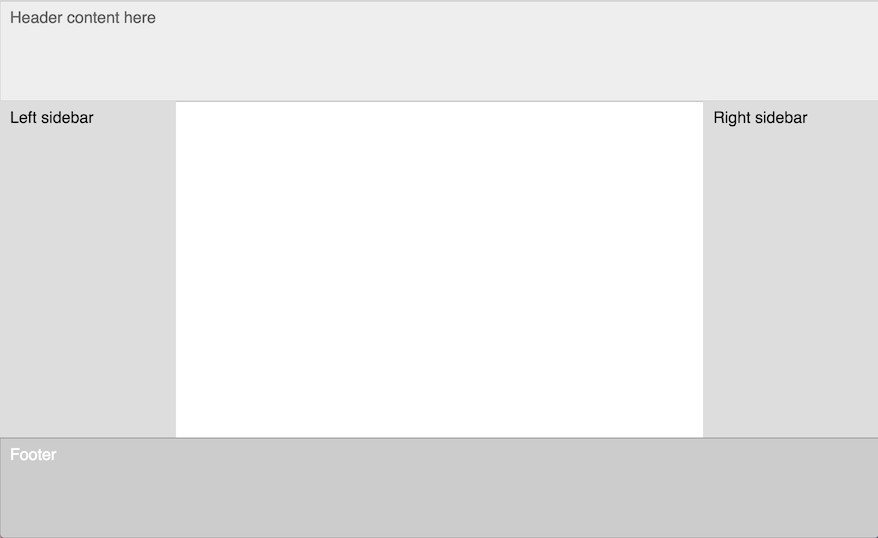
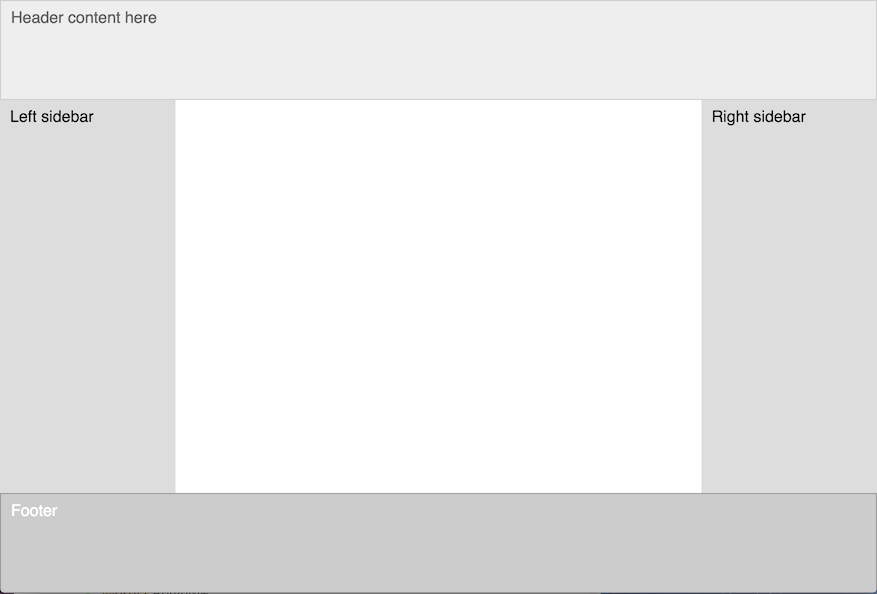
Render borders 100% inside element, stack padding on borders instead of overlapping, clarify docs, update examples

diff --git a/lightning-layout.js b/lightning-layout.js
@@ -18,8 +18,10 @@
     this._layout(ctx, element_obj, parent_x1, parent_y1, parent_x2, parent_y2);
     if (element_obj.children) {
       var padding = element_obj.padding || 0;
+      var border_width = element_obj.borderWidth || 0;
+      var offset = padding + border_width;
       element_obj.children.forEach(function(child) {
-        this.layout(ctx, child, element_obj._layout_x1 + padding, element_obj._layout_y1 + padding, element_obj._layout_x2 - padding, element_obj._layout_y2 - padding);
+        this.layout(ctx, child, element_obj._layout_x1 + offset, element_obj._layout_y1 + offset, element_obj._layout_x2 - offset, element_obj._layout_y2 - offset);
       }.bind(this));
     }
   };
@@ -44,14 +46,15 @@
 
     // calc textWidth / textHeight values
     var padding = element_obj.padding || 0;
+    var border_width = element_obj.borderWidth || 0;
     var width, height;
     if (element_obj.width == 'textWidth' || element_obj.height == 'textHeight') {
       if (element_obj.text) {
         ctx.font = element_obj.font || this.defaultFont;
         var metrics = ctx.measureText(element_obj.text);
         metrics.height = this.calcTextHeight(element_obj.font || this.defaultFont);
-        height = metrics.height + padding * 2;
-        width = metrics.width + padding * 2;
+        height = metrics.height + (padding + border_width) * 2;
+        width = metrics.width + (padding + border_width) * 2;
       }
       else {
         width = height = 0;
@@ -98,6 +101,7 @@
     var y1 = element_obj._layout_y1;
     var y2 = element_obj._layout_y2;
     var padding = element_obj.padding || 0;
+    var border_width = element_obj.borderWidth || 0;
 
     if (element_obj.backgroundColor) {
       ctx.fillStyle = element_obj.backgroundColor;
@@ -106,15 +110,16 @@
 
     if (element_obj.borderColor) {
       ctx.strokeStyle = element_obj.borderColor;
-      ctx.lineWidth = element_obj.borderWidth;
-      ctx.strokeRect(x1, y1, x2-x1, y2-y1);
+      var width = ctx.lineWidth = element_obj.borderWidth;
+      var offset = width / 2;
+      ctx.strokeRect(x1 + offset, y1 + offset, x2-x1-width, y2-y1-width);
     }
 
     if (element_obj.text) {
       ctx.font = element_obj.font || this.defaultFont;
       ctx.fillStyle = element_obj.color;
       var text_height = this.calcTextHeight(element_obj.font || this.defaultFont);
-      ctx.fillText(element_obj.text, x1 + padding, y1 + text_height + padding);
+      ctx.fillText(element_obj.text, x1 + (padding + border_width), y1 + text_height + (padding + border_width));
     }
   };
 

diff --git a/index.html b/index.html
@@ -1,6 +1,6 @@
 <html>
   <head>
-    <title>Canvas Boilerplate</title>
+    <title>Lightning Layout Example</title>
     <style type="text/css">
       *,html{
         margin: 0; padding: 0;
@@ -106,7 +106,8 @@ var layout2 = {
     bottom: 0,
     height: 100,
     backgroundColor: '#cccccc',
-    borderColor: '#999999'
+    borderColor: '#999999',
+    borderWidth: 1
   }]
 };
 

diff --git a/README.md b/README.md
@@ -96,7 +96,7 @@ ll.render(ctx, element_obj);
 
 This renders as:
 
-<img src="http://prust.github.io/lightning-layout/example-2-2x.png" width="878" alt="complex layout example" srcset="http://prust.github.io/lightning-layout/example-2-1x.png 1x, http://prust.github.io/lightning-layout/example-2-2x.png 2x"/>
+<img src="http://prust.github.io/lightning-layout/example-2-2x.png" width="877" alt="complex layout example" srcset="http://prust.github.io/lightning-layout/example-2-1x.png 1x, http://prust.github.io/lightning-layout/example-2-2x.png 2x"/>
 
 You can view and play with this example live at http://prust.github.io/lightning-layout.
 
@@ -147,7 +147,11 @@ See the footer click handling in `index.html` (http://prust.github.io/lightning-
 * `padding` - single number used for padding on all four sides (TODO: support separate padding values for each side)
 * `backgroundColor` - [css color string](https://developer.mozilla.org/en-US/docs/Web/CSS/color) for the border (transparent if not supplied)
 * `borderColor` - [css color string](https://developer.mozilla.org/en-US/docs/Web/CSS/color) for the border (no border is rendered if this is not supplied)
-* `borderWidth` - number for the width of the border (TODO: render the borders inside the element instead of half inside and half outside)
+* `borderWidth` - number for the width of the border (the border is drawn inside the element, then padding is inside of that, see Box Model)
+
+## Box Model
+
+There is no support for margins, since elements are positioned based on their parent, not sibling or "flow", and margins would overlap in meaning with the top/right/bottom/left properties. Borders and padding are both drawn *inside* the element (the border first, then padding is inside of that. For example: if there is a border of 1px and a padding of 2px, the inner width (the space reserved for text and child elements) would be 6px less than the outer width (`(1px + 2px) * 2`).
 
 ## Custom element rendering or layout
 
